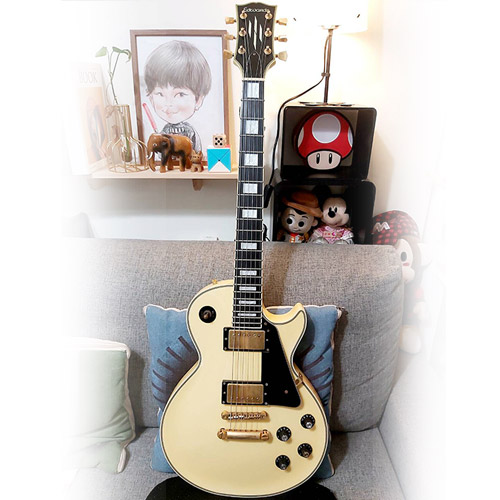
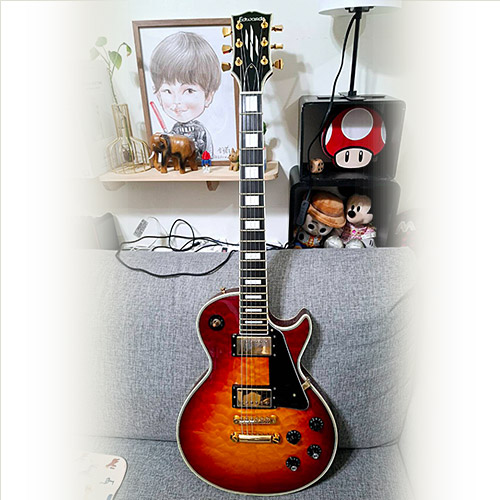
更新資料

diff --git a/rain.html b/rain.html
@@ -138,16 +138,24 @@
                 </div>
 
                 <!-- 介紹內容 -->
-                <div class="production2">
+                <!-- <div class="production2">
                   規劃中 ......
-                </div>
+                </div> -->
+                <!-- 介紹內容 -->
                 <!-- <p>
-                  <span style="color: #ea3b3b; font-weight: 800;">— 如果說，要追尋能夠震撼大地的聲響，那毫無疑問的，絕對就是鼓聲 —</span>
+                  <span style="color: #ea3b3b; font-weight: 800;">
+                    — 吉他就是 ~~ 隨時都能自彈自唱的娛樂自己的一種樂器!! 自己喜歡的音樂自己彈自己唱!! —
+                  </span>
+                </p> -->
+                <p>
+                  大學的時候，朋友們說要組樂團，結果吉他、鼓、主唱都有人選了，唯獨Bass沒人碰。我想說：「不然我來試試看？」就這樣開始摸索，沒想到一彈就是十多年。
                 </p>
                 <p>
-                  因為爵士鼓遊戲機的一首Mr.Children「Cross Road」，一頭栽進了鼓的世界，因為X-Japan的「紅」，開始學習雙踏，因為Yoshiki，決心也要效仿他用雙大鼓。
-                  成為鼓的信徒十多年來，從搖滾、龐克、力量金屬，一路走來，在無數個四季，懷抱著不同的音樂憧憬
-                </p> -->
+                  說不上有多熱愛，但我就是單純覺得Bass很好玩。它不像吉他那麼搶眼，卻能撐起整首歌的基底，彈起來很有自己的節奏感，這種感覺讓我覺得很自在。所以即使沒有特別去鑽研什麼高深技巧，我還是一直玩下來，排練、演出、玩團，這些都成了習慣，也讓我一路持續到現在。
+                </p>
+                <p>
+                  沒有什麼偉大的夢想或目標，就是喜歡Bass的聲音和感覺，然後就這樣一路彈到了現在，應該也會繼續彈下去吧。
+                </p>
 
                 <div class="row musicain-topic">
                   <div class="col-xs-12 col-md-12 prd-topic">
@@ -165,18 +173,6 @@
                   </div>
                   <div class="col-xs-12 col-sm-7 col-md-8">
                     <h2>01. Gibson Les Paul</h2>
-                    <p>
-                      成為鼓的信徒十多年來，從搖滾、龐克、力量金屬成為鼓的信徒十多年來，從搖滾、龐克、力量金屬
-                    </p>
-                  </div>
-                </div>
-
-                <div class="use-musical">
-                  <div class="col-xs-12 col-sm-5 col-md-4">
-                    <img src="images/CourseImg3.jpg"/>
-                  </div>
-                  <div class="col-xs-12 col-sm-7 col-md-8">
-                    <h2>02. Gibson Les Paul</h2>
                     <p>
                       成為鼓的信徒十多年來，從搖滾、龐克、力量金屬成為鼓的信徒十多年來，從搖滾、龐克、力量金屬
                     </p>

diff --git a/roy.html b/roy.html
@@ -201,9 +201,9 @@
                     <img src="images/musician/roy/edwards.jpg"/>
                   </div>
                   <div class="col-xs-12 col-sm-7 col-md-8">
-                    <h2>Edwards les paul custom yellow / japan</h2>
+                    <h2>Edwards les paul custom QM / japan</h2>
                     <p>
-                      Edwards custom 顏色很特別的一把琴，紙板配置黑檀木，出力蠻兇的，整把琴非常扎實，有種在彈G牌的感覺
+                      Edwards custom 雲狀漸層 顏色很特別的一把琴，紙板配置黑檀木，出力蠻兇的，整把琴非常扎實，音色很不錯
                     </p>
                   </div>
                 </div>
@@ -245,6 +245,18 @@
                     <h2>Squier fender style surf green</h2>
                     <p>
                       Squier sonic fender style 衝浪綠，一把初階琴，喜歡這個色系，手感算不錯，音色就.....不用太期待
+                    </p>
+                  </div>
+                </div>
+
+                <div class="use-musical">
+                  <div class="col-xs-12 col-sm-5 col-md-4">
+                    <img src="images/musician/roy/alp.jpg"/>
+                  </div>
+                  <div class="col-xs-12 col-sm-7 col-md-8">
+                    <h2>Alp leaf 100 Orange 旅行吉他</h2>
+                    <p>
+                      Alp leaf 100 Orange 旅行吉他，尺寸不大，紙板為正規尺寸!!
                     </p>
                   </div>
                 </div>
